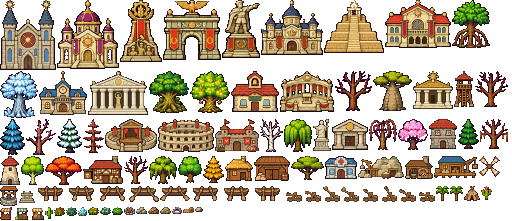
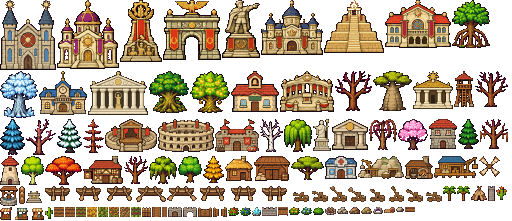
Arte en murallas, puertas, campos y puentes
- Texturas que se repiten alineadas con el mapa: encajan en cualquier forma y largo
- Empalizada y muralla de piedra, en tramos horizontales y verticales; puertas dibujadas, cerradas si la frontera lo está
- Campos: arado, sembrado, brotes, trigo, maíz, mijo, huerta (coles y calabazas) y cosecha muerta
- Puentes anchos y estrechos con tablones y barandillas (los diagonales, como antes)

Changed region(s): [[0.0312, 0.8416, 1.0, 1.0]]

diff --git a/js/arte_mapa.js b/js/arte_mapa.js
@@ -1,2 +1,2 @@
 // Forja de Mundos · Mapa del atlas de arte (generado: no editar a mano). clave: [x, y, ancho, alto, ancla x, llamas?]
-const ART_MAP = {"house:hut":[225,156,28,25,14],"house:piedra":[429,119,28,30,14],"well:pozo":[0,186,18,20,9],"store:almacen":[254,156,36,25,18],"tower:torre":[454,71,20,36,10],"hall:ayuntamiento":[39,71,48,44,24],"market:mercado":[0,207,44,13,22],"bank:banco":[332,119,36,31,18],"hospital:hospital":[325,156,32,23,16],"school:escuela":[231,71,48,41,24],"tavern:taberna":[83,156,40,28,20],"theater:teatro":[105,119,52,33,26],"coliseum:coliseo":[158,119,56,33,28],"barracks:cuartel":[215,119,44,33,22],"tradehall:lonja":[434,156,44,22,22],"quarry:cantera":[358,156,46,23,23],"temple:templo":[413,71,40,38,20],"obelisk:monumento":[313,119,18,32,9],"cathedral:catedral":[0,0,56,70,28],"cathedral:panteon":[88,71,60,44,30],"wonder:republica":[280,71,54,41,27],"wonder:monarquia":[261,0,62,55,31],"wonder:dictadura":[222,0,38,58,19],"wonder:comunismo":[120,0,42,62,21],"wonder:fascismo":[163,0,58,60,29],"wonder:socialismo":[385,0,66,48,33],"wonder:teocracia":[57,0,62,69,31],"altar:altar":[19,186,16,17,8,[5,0,6,6]],"cathedral:zigurat":[324,0,60,53,30,[24,1,12,13]],"forge:herreria":[405,156,28,23,14,[14,17,9,3]],"mill:molino":[0,156,20,29,10],"mill:aspas":[479,156,21,21,10],"oak:forest":[178,156,24,27,12],"oak:forest:bare":[124,156,24,28,12],"pine:pine":[458,119,21,30,10],"pine:snow":[57,119,25,34,12],"acacia:dry":[291,156,33,24,16],"acacia:dry:bare":[475,71,33,36,16],"birch:birch":[21,156,23,29,11],"birch:birch:bare":[260,119,23,33,11],"pine:blue":[0,119,25,36,12],"willow:swamp":[284,119,28,33,14],"willow:swamp:bare":[369,119,28,31,14],"palm:palm":[436,186,13,15,6],"palm:coco":[450,186,13,15,6],"oak:cherry":[398,119,30,31,15],"oak:cherry:bare":[26,119,30,36,15],"pine:autumn":[203,156,21,27,10],"pine:autumn:bare":[83,119,21,34,10],"acacia:sunset":[45,156,37,29,18],"acacia:sunset:bare":[335,71,37,40,18],"willow:moss":[149,156,28,28,14],"willow:moss:bare":[480,119,28,30,14],"cactus:cactus":[45,207,8,12,4],"cactus:bloom":[481,186,11,14,5],"ancient:elder":[149,71,40,42,20],"ancient:frost":[0,71,38,47,19],"ancient:baobab":[373,71,39,40,19],"ancient:mangrove":[452,0,38,48,19],"ancient:life":[190,71,40,42,20],"bush:red":[54,207,11,9,5],"bush:blueb":[66,207,11,9,5],"bush:goldb":[88,207,11,8,5],"bush:moon":[100,207,11,8,5],"bush:empty":[112,207,11,8,5],"rock:stone":[195,207,8,5,4],"big:stone":[136,207,11,7,5],"ore:iron":[148,207,11,7,5],"ore:gold":[160,207,11,7,5],"gem:amethyst":[172,207,10,7,5],"gem:mana":[78,207,9,9,4],"fire:camp":[124,207,11,8,5],"camp:tienda":[464,186,16,15,8],"camp:estera":[183,207,11,6,5],"boat:0":[36,186,30,16,15],"boat:1":[67,186,30,16,15],"boat:2":[98,186,30,16,15],"boat:3":[129,186,30,16,15],"boat:4":[160,186,30,16,15],"boat:5":[191,186,30,16,15],"boat:6":[222,186,30,16,15],"boat:7":[253,186,30,16,15],"catapult:0":[284,186,18,16,9],"catapult:1":[303,186,18,16,9],"catapult:2":[322,186,18,16,9],"catapult:3":[341,186,18,16,9],"catapult:4":[360,186,18,16,9],"catapult:5":[379,186,18,16,9],"catapult:6":[398,186,18,16,9],"catapult:7":[417,186,18,16,9]};
+const ART_MAP = {"house:hut":[225,156,28,25,14],"house:piedra":[429,119,28,30,14],"well:pozo":[0,186,18,20,9],"store:almacen":[254,156,36,25,18],"tower:torre":[454,71,20,36,10],"hall:ayuntamiento":[39,71,48,44,24],"market:mercado":[0,207,44,13,22],"bank:banco":[332,119,36,31,18],"hospital:hospital":[325,156,32,23,16],"school:escuela":[231,71,48,41,24],"tavern:taberna":[83,156,40,28,20],"theater:teatro":[105,119,52,33,26],"coliseum:coliseo":[158,119,56,33,28],"barracks:cuartel":[215,119,44,33,22],"tradehall:lonja":[434,156,44,22,22],"quarry:cantera":[358,156,46,23,23],"temple:templo":[413,71,40,38,20],"obelisk:monumento":[313,119,18,32,9],"cathedral:catedral":[0,0,56,70,28],"cathedral:panteon":[88,71,60,44,30],"wonder:republica":[280,71,54,41,27],"wonder:monarquia":[261,0,62,55,31],"wonder:dictadura":[222,0,38,58,19],"wonder:comunismo":[120,0,42,62,21],"wonder:fascismo":[163,0,58,60,29],"wonder:socialismo":[385,0,66,48,33],"wonder:teocracia":[57,0,62,69,31],"altar:altar":[26,186,16,17,8,[5,0,6,6]],"cathedral:zigurat":[324,0,60,53,30,[24,1,12,13]],"forge:herreria":[405,156,28,23,14,[14,17,9,3]],"mill:molino":[0,156,20,29,10],"mill:aspas":[479,156,21,21,10],"oak:forest":[178,156,24,27,12],"oak:forest:bare":[124,156,24,28,12],"pine:pine":[458,119,21,30,10],"pine:snow":[57,119,25,34,12],"acacia:dry":[291,156,33,24,16],"acacia:dry:bare":[475,71,33,36,16],"birch:birch":[21,156,23,29,11],"birch:birch:bare":[260,119,23,33,11],"pine:blue":[0,119,25,36,12],"willow:swamp":[284,119,28,33,14],"willow:swamp:bare":[369,119,28,31,14],"palm:palm":[443,186,13,15,6],"palm:coco":[457,186,13,15,6],"oak:cherry":[398,119,30,31,15],"oak:cherry:bare":[26,119,30,36,15],"pine:autumn":[203,156,21,27,10],"pine:autumn:bare":[83,119,21,34,10],"acacia:sunset":[45,156,37,29,18],"acacia:sunset:bare":[335,71,37,40,18],"willow:moss":[149,156,28,28,14],"willow:moss:bare":[480,119,28,30,14],"cactus:cactus":[45,207,8,12,4],"cactus:bloom":[496,186,11,14,5],"ancient:elder":[149,71,40,42,20],"ancient:frost":[0,71,38,47,19],"ancient:baobab":[373,71,39,40,19],"ancient:mangrove":[452,0,38,48,19],"ancient:life":[190,71,40,42,20],"bush:red":[228,207,11,9,5],"bush:blueb":[240,207,11,9,5],"bush:goldb":[289,207,11,8,5],"bush:moon":[301,207,11,8,5],"bush:empty":[313,207,11,8,5],"rock:stone":[396,207,8,5,4],"big:stone":[337,207,11,7,5],"ore:iron":[349,207,11,7,5],"ore:gold":[361,207,11,7,5],"gem:amethyst":[373,207,10,7,5],"gem:mana":[252,207,9,9,4],"fire:camp":[325,207,11,8,5],"camp:tienda":[471,186,16,15,8],"camp:estera":[384,207,11,6,5],"boat:0":[43,186,30,16,15],"boat:1":[74,186,30,16,15],"boat:2":[105,186,30,16,15],"boat:3":[136,186,30,16,15],"boat:4":[167,186,30,16,15],"boat:5":[198,186,30,16,15],"boat:6":[229,186,30,16,15],"boat:7":[260,186,30,16,15],"catapult:0":[291,186,18,16,9],"catapult:1":[310,186,18,16,9],"catapult:2":[329,186,18,16,9],"catapult:3":[348,186,18,16,9],"catapult:4":[367,186,18,16,9],"catapult:5":[386,186,18,16,9],"catapult:6":[405,186,18,16,9],"catapult:7":[424,186,18,16,9],"tex:arada":[54,207,10,10,5],"tex:sembrado":[65,207,10,10,5],"tex:brotes":[76,207,10,10,5],"tex:trigo":[87,207,10,10,5],"tex:maiz":[98,207,10,10,5],"tex:mijo":[109,207,10,10,5],"tex:muerta":[120,207,10,10,5],"tex:huerta":[131,207,10,10,5],"tex:empalizada_h":[142,207,9,10,4],"tex:empalizada_v":[19,186,6,18,3],"tex:piedra_h":[262,207,15,9,7],"tex:piedra_v":[488,186,7,15,3],"tex:puente_h":[278,207,10,9,5],"tex:puente_v":[152,207,9,10,4],"tex:puente_h5":[405,207,10,5,5],"tex:puente_v5":[162,207,5,10,2],"gate:piedra":[168,207,14,10,7],"gate:piedra_abierta":[183,207,14,10,7],"gate:madera":[198,207,14,10,7],"gate:madera_abierta":[213,207,14,10,7]};

diff --git a/js/sociedad.js b/js/sociedad.js
@@ -482,6 +482,12 @@ function paintBridges(part){
       const px = (i % W) * T, py = ((i / W) | 0) * T;
       if (px + T < x0 - 4 || px > x1 + 4 || py + T < y0 - 4 || py > y1 + 4) return;
       const a0 = k === 0 ? -2 : 0, a1 = k === n - 1 ? 2 : 0; // los extremos se apoyan en la orilla
+      if (ART.ready && artPattern(b.h ? 'tex:puente_h' : 'tex:puente_v')) { // el dibujo: tablero con barandillas
+        vctx.fillStyle = 'rgba(0,0,0,.25)';
+        if (b.h) { vctx.fillRect(px + a0, py + T + 2, T - a0 + a1, 2); artFill(vctx, 'tex:puente_h', px + a0, py - 2, T - a0 + a1, 9, 0, py - 2); }
+        else { vctx.fillRect(px + T + 2, py + a0, 2, T - a0 + a1); artFill(vctx, 'tex:puente_v', px - 2, py + a0, 9, T - a0 + a1, px - 2, 0); }
+        return;
+      }
       if (b.h) {
         vctx.fillStyle = 'rgba(0,0,0,.25)'; vctx.fillRect(px + a0, py + T + 2, T - a0 + a1, 2);
         vctx.fillStyle = '#9a6a3e'; vctx.fillRect(px + a0, py - 2, T - a0 + a1, T + 4);
@@ -501,6 +507,7 @@ function paintBridges(part){
     const px = (i % W) * T, py = ((i / W) | 0) * T;
     if (px + T < x0 || px > x1 || py + T < y0 || py > y1) continue;
     vctx.fillStyle = 'rgba(0,0,0,.25)'; vctx.fillRect(px + 1, py + 1, T, T);          // sombra en el agua
+    if (ART.ready && (b.h ? artFill(vctx, 'tex:puente_h5', px, py, T, T, 0, py) : artFill(vctx, 'tex:puente_v5', px, py, T, T, px, 0))) continue; // el dibujo
     vctx.fillStyle = '#9a6a3e'; vctx.fillRect(px, py, T, T);                            // tablones
     vctx.fillStyle = '#7a5030';
     if (b.h) { vctx.fillRect(px + 1, py, 1, T); vctx.fillRect(px + 3, py, 1, T); } else { vctx.fillRect(px, py + 1, T, 1); vctx.fillRect(px, py + 3, T, 1); }
@@ -838,6 +845,15 @@ function drawWalls(){
     const px = (i % W) * T, py = ((i / W) | 0) * T;
     if (px + T < x0 || px > x1 || py + T < y0 - 8 || py > y1) continue;
     const vert = (wallSet.has(i - W) || wallSet.has(i + W) || gateSet.has(i - W) || gateSet.has(i + W)) && !wallSet.has(i - 1) && !wallSet.has(i + 1);
+    if (ART.ready) { // el dibujo: tramo horizontal o vertical, de piedra o de madera
+      const stn = wallStone.has(i), k = stn ? (vert ? 'tex:piedra_v' : 'tex:piedra_h') : (vert ? 'tex:empalizada_v' : 'tex:empalizada_h'), p = artPattern(k);
+      if (p) {
+        vctx.fillStyle = 'rgba(0,0,0,.25)'; vctx.fillRect(px - (vert ? 1 : 0), py + T - 1, T + (vert ? 2 : 0), 2);
+        if (vert) { const w = p.w, top = wallSet.has(i - W) || gateSet.has(i - W) ? py : py - 4; artFill(vctx, k, px + (T >> 1) - (w >> 1), top, w, py + T - top, px + (T >> 1) - (w >> 1), 0); }
+        else artFill(vctx, k, px, py + T - p.h, T, p.h, 0, py + T - p.h);
+        continue;
+      }
+    }
     if (vert && !wallStone.has(i)) { // tramo que va de arriba abajo: se ve de lado, más ancho (dos filas de estacas y el adarve)
       vctx.fillStyle = 'rgba(0,0,0,.25)'; vctx.fillRect(px - 1, py + T - 1, T + 3, 2);
       for (let k = -1; k <= T; k++) {
@@ -865,8 +881,10 @@ function drawWalls(){
   for (const i of gateSet) { // puerta: dos postes más altos a los lados
     const px = (i % W) * T, py = ((i / W) | 0) * T;
     if (px + T < x0 || px > x1 || py + T < y0 - 8 || py > y1) continue;
-    vctx.fillStyle = '#5a3a20'; vctx.fillRect(px, py - 5, 1, T + 5); vctx.fillRect(px + T - 1, py - 5, 1, T + 5); vctx.fillRect(px, py - 5, T, 1);
-    const go = villageById(gateOwner.get(i)); if (go && hasLaw(go, 'fronteras_cerradas')) { vctx.fillStyle = '#6a4426'; vctx.fillRect(px + 1, py - 2, T - 2, 4); vctx.fillStyle = '#3a2614'; vctx.fillRect(px + 1, py, T - 2, 1); } // frontera cerrada: puerta atrancada
+    const go = villageById(gateOwner.get(i)), shut = go && hasLaw(go, 'fronteras_cerradas'), stn = [i - 1, i + 1, i - W, i + W].some(j => wallStone.has(j));
+    const gs = artFrame(`gate:${stn ? 'piedra' : 'madera'}${shut ? '' : '_abierta'}`);
+    if (gs) { vctx.drawImage(gs, px + (T >> 1) - (gs.width >> 1), py + T - gs.height); continue; } // el dibujo: cerrada si la frontera está cerrada
+    vctx.fillStyle = '#5a3a20'; vctx.fillRect(px, py - 5, 1, T + 5); vctx.fillRect(px + T - 1, py - 5, 1, T + 5); vctx.fillRect(px, py - 5, T, 1); if (go && hasLaw(go, 'fronteras_cerradas')) { vctx.fillStyle = '#6a4426'; vctx.fillRect(px + 1, py - 2, T - 2, 4); vctx.fillStyle = '#3a2614'; vctx.fillRect(px + 1, py, T - 2, 1); } // frontera cerrada: puerta atrancada
   }
 }
 // ---- Religión: cada aldea venera a su dios; las desgracias se las atribuyen a algo y actúan en consecuencia ----
@@ -3067,8 +3085,9 @@ function drawFarmTiles(x0, y0, x1, y1){
   for (const [i, f] of farmMap) {
     const tx = i % W, ty = (i / W) | 0, px = tx * T, py = ty * T;
     if (px + T < x0 || px > x1 || py + T < y0 || py > y1) continue;
-    const st = f.st;
-    if (st !== 'pradera') {
+    const st = f.st, tk = st !== 'pradera' && ART.ready && fieldTex(f);
+    if (tk && artFill(vctx, tk, px, py, T, T)) { /* dibujado: tierra y cultivo de la textura */ }
+    else if (st !== 'pradera') {
       vctx.fillStyle = '#6e4a2c'; vctx.fillRect(px, py, T, T);                                    // tierra arada
       vctx.fillStyle = '#58391f'; for (let r = 1; r < T; r += 2) vctx.fillRect(px, py + r, T, 1);  // surcos
     }
@@ -3079,7 +3098,7 @@ function drawFarmTiles(x0, y0, x1, y1){
     if (!same(i + W)) vctx.fillRect(px, py + T - 1, T, 1);
     if (tx === 0 || !same(i - 1)) vctx.fillRect(px, py, 1, T);
     if (tx === W - 1 || !same(i + 1)) vctx.fillRect(px + T - 1, py, 1, T);
-    if (st === 'pradera' || st === 'arada') continue;
+    if (st === 'pradera' || st === 'arada' || tk) continue;
     const h = st === 'sembrado' ? 1 : st === 'creciendo' ? 1 + Math.round(f.g * 4) : st === 'madura' ? 5 : 1;
     const C = CROPS[f.crop || 'trigo'], col = st === 'madura' ? C.ripe : st === 'muerta' ? ['#7a6a4a', '#5a4c36'] : C.leaf;
     for (let k = 0; k < T; k += 2) for (let r = 0; r < 2; r++) {

diff --git a/index.html b/index.html
@@ -6,7 +6,7 @@
 <meta name="claude:viewport-fit-sides" content="cover">
 <link rel="preconnect" href="https://fonts.googleapis.com">
 <link rel="stylesheet" href="https://fonts.googleapis.com/css2?family=Pixelify+Sans:wght@400;600&family=Nunito+Sans:wght@400;600;700&display=swap">
-<link rel="stylesheet" href="css/estilo.css?v=202611230227">
+<link rel="stylesheet" href="css/estilo.css?v=202611230233">
 
 <div class="app">
   <section class="stage" id="stage">
@@ -155,24 +155,24 @@
 </div>
 
 <!-- El juego, en el orden en que se carga -->
-<script src="js/nucleo.js?v=202611230227"></script>
-<script src="js/mundo.js?v=202611230227"></script>
-<script src="js/vista.js?v=202611230227"></script>
-<script src="js/clima.js?v=202611230227"></script>
-<script src="js/fauna.js?v=202611230227"></script>
-<script src="js/desastres.js?v=202611230227"></script>
-<script src="js/mapas.js?v=202611230227"></script>
-<script src="js/humanos.js?v=202611230227"></script>
-<script src="js/partidas.js?v=202611230227"></script>
-<script src="js/vida.js?v=202611230227"></script>
-<script src="js/sociedad.js?v=202611230227"></script>
-<script src="js/cartografia.js?v=202611230227"></script>
-<script src="js/convivencia.js?v=202611230227"></script>
-<script src="js/credos.js?v=202611230227"></script>
-<script src="js/tratados.js?v=202611230227"></script>
-<script src="js/trabajo.js?v=202611230227"></script>
-<script src="js/arte_mapa.js?v=202611230227"></script>
-<script src="js/arte.js?v=202611230227"></script>
-<script src="js/vegetacion.js?v=202611230227"></script>
-<script src="js/aldeanos.js?v=202611230227"></script>
-<script src="js/interfaz.js?v=202611230227"></script>
+<script src="js/nucleo.js?v=202611230233"></script>
+<script src="js/mundo.js?v=202611230233"></script>
+<script src="js/vista.js?v=202611230233"></script>
+<script src="js/clima.js?v=202611230233"></script>
+<script src="js/fauna.js?v=202611230233"></script>
+<script src="js/desastres.js?v=202611230233"></script>
+<script src="js/mapas.js?v=202611230233"></script>
+<script src="js/humanos.js?v=202611230233"></script>
+<script src="js/partidas.js?v=202611230233"></script>
+<script src="js/vida.js?v=202611230233"></script>
+<script src="js/sociedad.js?v=202611230233"></script>
+<script src="js/cartografia.js?v=202611230233"></script>
+<script src="js/convivencia.js?v=202611230233"></script>
+<script src="js/credos.js?v=202611230233"></script>
+<script src="js/tratados.js?v=202611230233"></script>
+<script src="js/trabajo.js?v=202611230233"></script>
+<script src="js/arte_mapa.js?v=202611230233"></script>
+<script src="js/arte.js?v=202611230233"></script>
+<script src="js/vegetacion.js?v=202611230233"></script>
+<script src="js/aldeanos.js?v=202611230233"></script>
+<script src="js/interfaz.js?v=202611230233"></script>

diff --git a/js/arte.js b/js/arte.js
@@ -9,7 +9,7 @@ const ART = { img:null, ready:false, cache:new Map() };
   if (typeof ART_MAP === 'undefined') return;
   const im = new Image();
   im.onload = () => { ART.img = im; ART.ready = true; ART.cache.clear(); if (typeof world !== 'undefined' && world && typeof composeRegion === 'function') composeRegion(0, 0, W - 1, H - 1); };
-  im.src = 'arte/atlas.png?v=202611230227';
+  im.src = 'arte/atlas.png?v=202611230233';
 })();
 const ART_DECID = new Set(['oak:forest', 'birch:birch', 'willow:swamp', 'willow:moss', 'acacia:dry', 'acacia:sunset', 'oak:cherry', 'pine:autumn']);
 const ART_EVER = new Set(['pine:pine', 'pine:snow', 'pine:blue', 'ancient:elder', 'ancient:mangrove', 'ancient:life', 'ancient:baobab']);
@@ -63,6 +63,21 @@ function artSprite(o){
 }
 // Un fotograma suelto (barca, catapulta, tienda…), ya recortado
 const artFrame = k => { if (!ART.ready || !ART_MAP[k]) return null; let c = ART.cache.get('f|' + k); if (!c) { c = artPiece(k); ART.cache.set('f|' + k, c); } return c; };
+// Texturas que se repiten (campos, murallas, puentes), alineadas con el mapa para que encajen casilla con casilla
+const artPatterns = new Map();
+function artPattern(k){
+  if (!ART.ready || !ART_MAP[k]) return null;
+  let p = artPatterns.get(k); if (p) return p;
+  const c = artPiece(k); p = c.getContext('2d').createPattern(c, 'repeat'); p.w = c.width; p.h = c.height; artPatterns.set(k, p); return p;
+}
+// Rellena un rectángulo con la textura; ox/oy: dónde empieza la textura (si no, alineada con el mapa)
+function artFill(ctx, k, x, y, w, h, ox = 0, oy = 0){
+  const p = artPattern(k); if (!p) return false;
+  p.setTransform(new DOMMatrix([1, 0, 0, 1, ox, oy])); ctx.fillStyle = p; ctx.fillRect(x, y, w, h); return true;
+}
+const FIELD_TEX = { arada:'tex:arada', sembrado:'tex:sembrado', muerta:'tex:muerta' };
+const CROP_TEX = { trigo:'tex:trigo', maiz:'tex:maiz', mijo:'tex:mijo', calabaza:'tex:huerta', col:'tex:huerta' };
+const fieldTex = f => f.st === 'madura' ? CROP_TEX[f.crop || 'trigo'] || 'tex:trigo' : f.st === 'creciendo' ? (f.g > .55 ? CROP_TEX[f.crop || 'trigo'] || 'tex:trigo' : 'tex:brotes') : FIELD_TEX[f.st];
 // Aspas de los molinos: al final de todo, para que nada (ni la gente que pasa por detrás) las tape
 let millSails = [];
 function drawMillSails(){

diff --git a/herramientas/atlas.py b/herramientas/atlas.py
@@ -123,6 +123,30 @@ def frames(name, cols, rows, w, skip_small=True):
 for k, f in enumerate(frames('barco.png', 4, 2, 30)): add(f'boat:{k}', f)
 for k, f in enumerate(frames('catapulta.png', 4, 2, 18)): add(f'catapult:{k}', f)
 
+# ---- Texturas que se repiten (campos, murallas, puentes): tamaño exacto, sin conservar proporción ----
+def tex(name, box, w, h, opaque=False, colors=16):
+    x0, y0, x1, y1 = box; img = cut(name, [((x0 + x1) // 2, (y0 + y1) // 2)], box=box)
+    small = img.convert('RGBa').resize((w, h), Image.BOX).convert('RGBA'); arr = np.array(small)
+    alpha = np.ones(arr.shape[:2], bool) if opaque else arr[..., 3] >= 110
+    rgb = Image.fromarray(arr[..., :3]).quantize(colors=colors, method=Image.Quantize.MEDIANCUT, dither=Image.Dither.NONE).convert('RGB')
+    out = np.zeros((h, w, 4), np.uint8); out[..., :3] = np.array(rgb); out[..., 3] = alpha * 255
+    return Image.fromarray(out, 'RGBA')
+H7B = 'hoja_07B.png'
+for k, (x, y) in {'arada':(131, 133), 'sembrado':(430, 134), 'brotes':(731, 134), 'trigo':(1031, 133), 'maiz':(131, 430), 'mijo':(430, 431), 'muerta':(731, 431), 'huerta':(1031, 432)}.items():
+    add('tex:' + k, tex(H7B, (x + 10, y + 10, x + 84, y + 84), 10, 10, True, 12))
+# Murallas: tramos horizontales (se repiten a lo ancho) y verticales (a lo alto)
+add('tex:empalizada_h', tex(H7, (695, 439, 786, 538), 9, 10)) # tres troncos afilados (se repiten)
+add('tex:empalizada_v', tex(H7, (1072, 391, 1120, 564), 6, 18))
+add('tex:piedra_h', tex(H7, (380, 752, 563, 833), 15, 9))
+add('tex:piedra_v', tex(H7, (750, 704, 819, 857), 7, 15))
+# Puentes: tablero con barandillas (sin los postes de los extremos)
+add('tex:puente_h', tex(H7, (398, 141, 545, 252), 10, 9)); add('tex:puente_v', tex(H7, (733, 102, 835, 247), 9, 10))
+add('tex:puente_h5', tex(H7, (398, 141, 545, 252), 10, 5)); add('tex:puente_v5', tex(H7, (733, 102, 835, 247), 5, 10))
+# Puertas de la muralla: cerradas y abiertas (de piedra y de madera)
+HP = 'puertas.png'
+add('gate:piedra', shrink(cut(HP, [(220, 250)]), 14, 14)); add('gate:piedra_abierta', shrink(cut(HP, [(1550, 250)]), 14, 14))
+add('gate:madera', shrink(cut(HP, [(220, 690)]), 14, 14)); add('gate:madera_abierta', shrink(cut(HP, [(1020, 690), (1195, 690)]), 14, 14))  # (entreabierta: se ven las hojas)
+
 # ---- Atlas: en filas, con 1 píxel de separación ----
 keys = list(S); W = 512; x = y = rowh = 0; pos = {}
 for k in sorted(keys, key=lambda k: -S[k]['img'].height):
